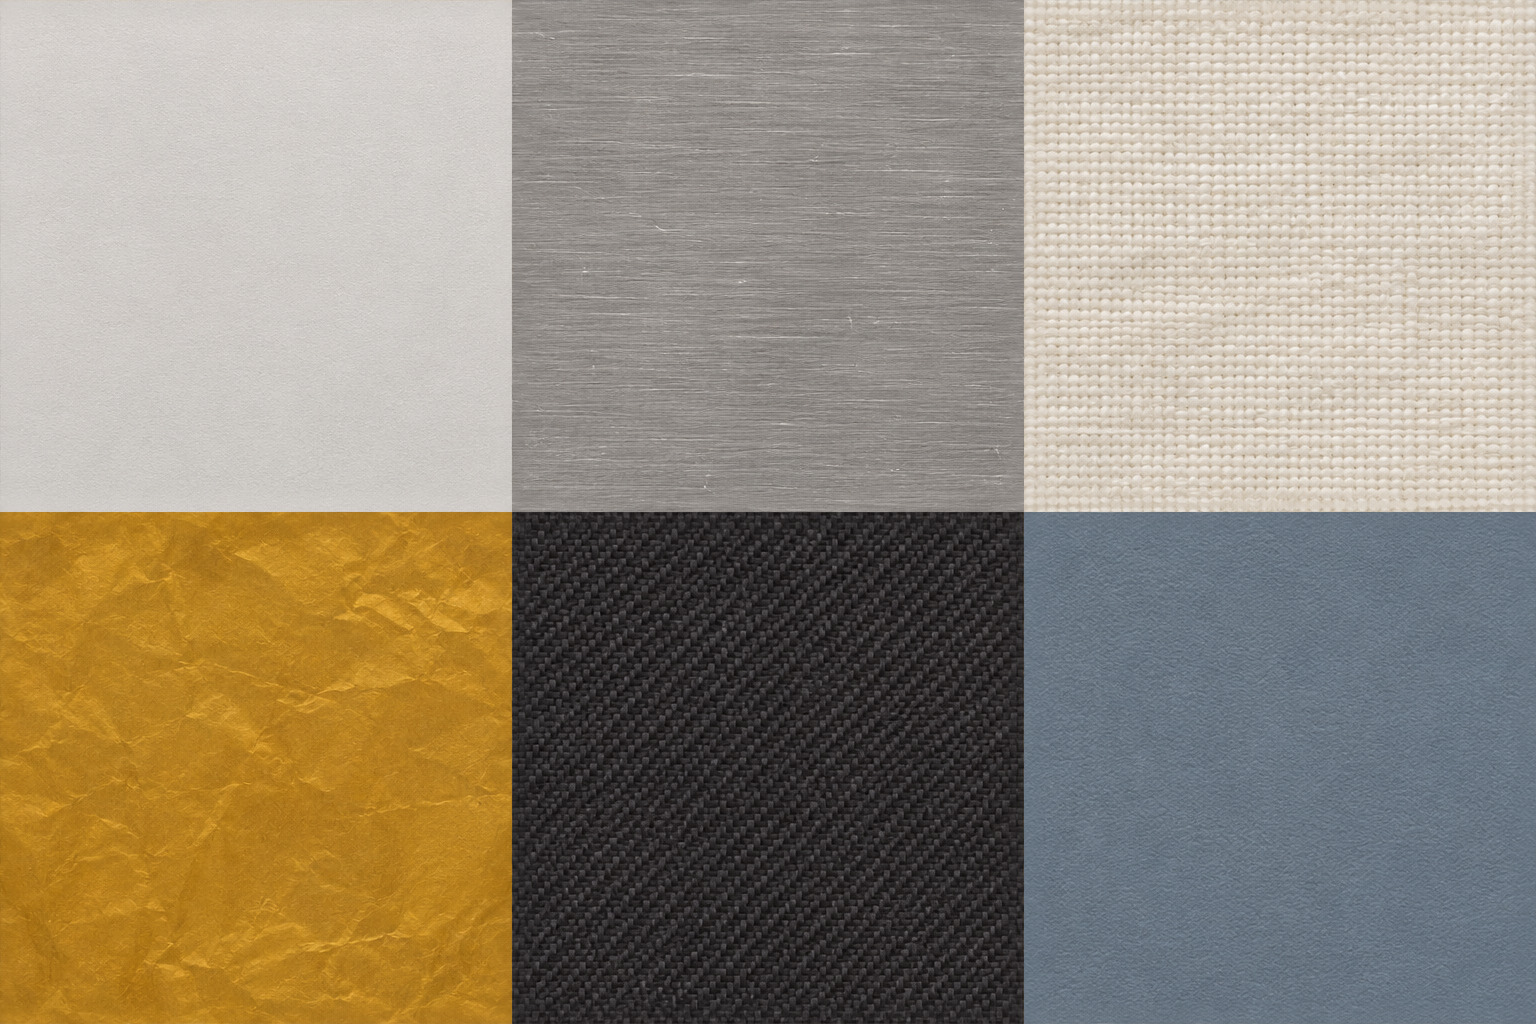
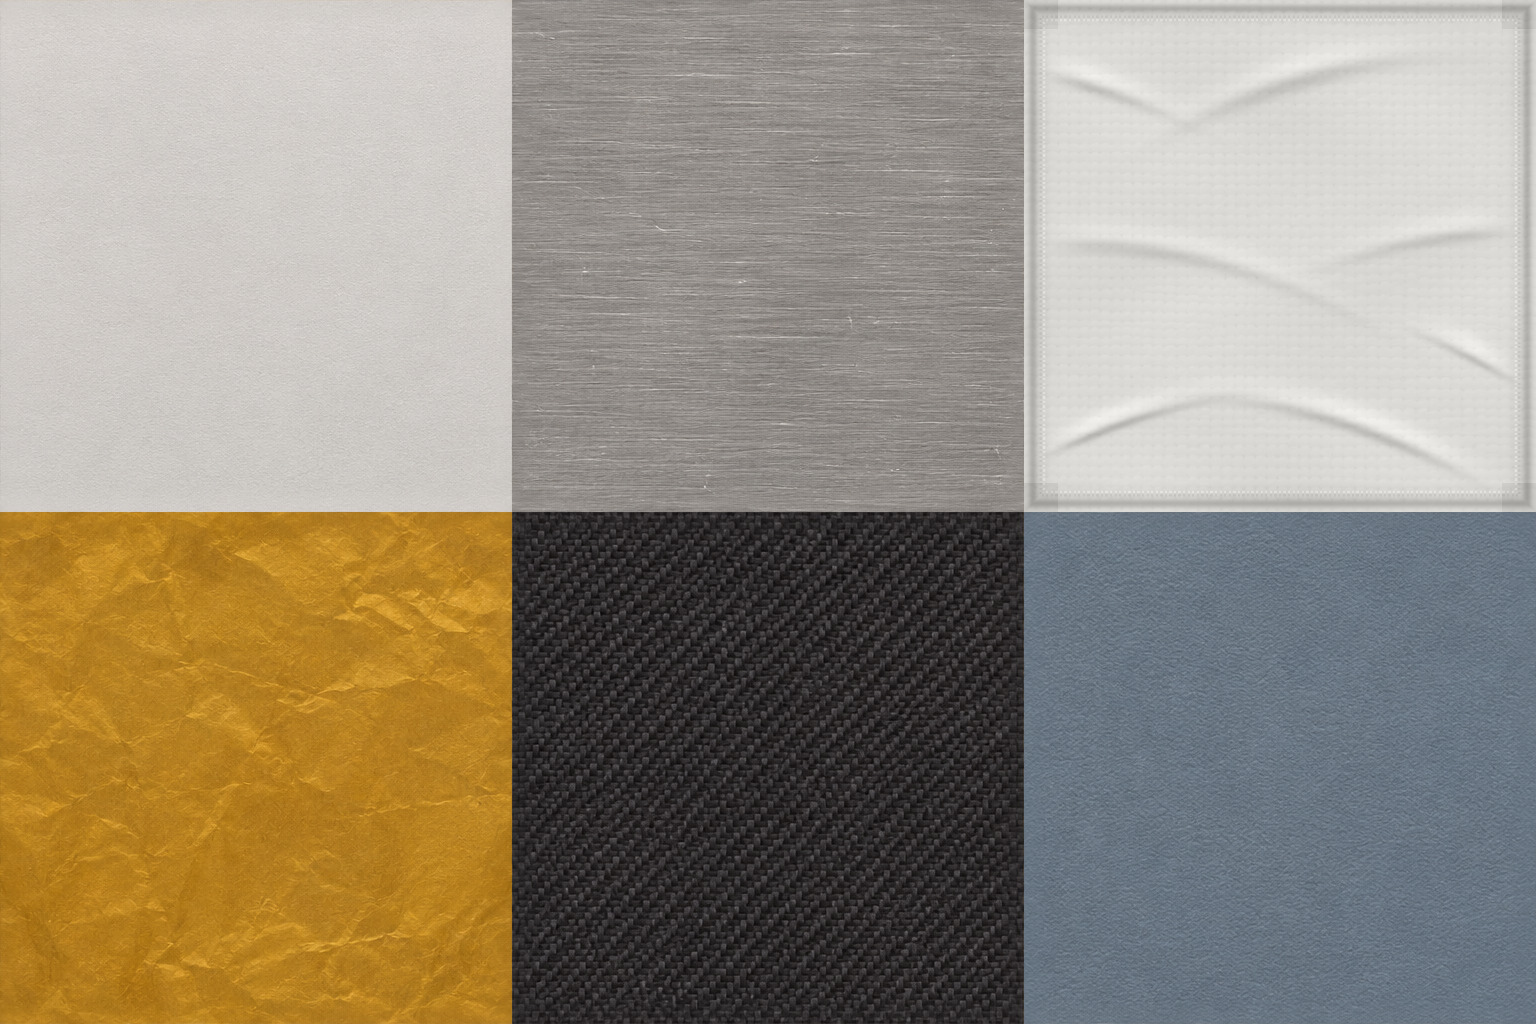
Preview orbital thermal quilt and hatch lighting

Changed region(s): [[0.6562, 0.0, 1.0, 0.5]]

diff --git a/orbital/art/build-surfaces.py b/orbital/art/build-surfaces.py
@@ -12,16 +12,51 @@ src = Image.open(sys.argv[1]).convert("RGB")
 size = 512
 assert src.size == (3*size,2*size), src.size
 atlas = Image.new("RGB", src.size)
+def thermal_quilt(linen):
+    """Project one insulated panel, with restrained weave and anchored folds."""
+    y,x=np.mgrid[0:size,0:size].astype(np.float32)/(size-1)
+    d=np.minimum(np.minimum(x,1-x),np.minimum(y,1-y))
+    weave=(linen.mean(axis=2)-217.)*.13
+    value=219.+weave
+    # Broad fabric relief radiates from off-center fixings and fades inboard.
+    fold_specs=[
+        (.11,.15,.28,.15,.022,.012,14.0),
+        (.15,.83,-.39,.17,.019,.009,17.0),
+        (.27,.48,.16,.30,.026,.015,10.0),
+        (.55,.14,-.28,.20,.033,.019,14.0),
+        (.67,.83,.36,.22,.026,.012,16.0),
+        (.83,.45,-.13,.19,.026,.013,11.0),
+        (.92,.71,.55,.11,.024,.009,17.0),
+    ]
+    for x0,y0,slope,extent,soft,narrow,amp in fold_specs:
+        along=x-x0
+        cross=y-y0-along*slope-.48*along*along
+        taper=np.exp(-(along/extent)**2)*np.clip((d-.024)*10.,0.,1.)
+        value+=amp*1.20*taper*np.exp(-((cross+.011)/soft)**2)
+        value-=amp*2.35*taper*np.exp(-((cross-.015)/narrow)**2)
+    # Compressed binding, twin rows of thread and darker corner tabs.
+    value-=42.*np.exp(-((d-.016)/.009)**2)
+    value-=8.*np.exp(-((d-.036)/.014)**2)
+    broadAge=3.*np.sin(11.*x+1.4*np.cos(9.*y))*np.sin(8.*y)
+    value+=broadAge
+    edgeAlong=np.where(np.minimum(x,1-x)<np.minimum(y,1-y),y,x)
+    thread=.5+.5*np.cos(2*np.pi*(edgeAlong*112.))
+    value-=13.*(thread>.50)*np.exp(-((d-.032)/.0030)**2)
+    value+=19.*(thread>.50)*np.exp(-((d-.038)/.0022)**2)
+    edgeTab=(np.minimum(x,1-x)<.065)&(np.minimum(y,1-y)<.055)
+    value-=13.*edgeTab.astype(np.float32)
+    return np.stack((value+2.,value,value-4.),axis=-1).clip(0,255)
 for layer in range(6):
     x0, y0 = (layer%3)*size, (layer//3)*size
     rgb = np.array(src.crop((x0,y0,x0+size,y0+size)), dtype=np.float32)
+    if layer==2:rgb=thermal_quilt(rgb)
     # Make opposite boundaries match, without mirroring entire image quadrants.
-    for k in range(30):
+    for k in range(0 if layer==2 else 30):
         a = .5*np.cos(k/30*np.pi/2)**2
         edge = rgb[:, k].copy()
         rgb[:, k] = (1-a)*edge+a*rgb[:, -k-1]
         rgb[:, -k-1] = (1-a)*rgb[:, -k-1]+a*edge
-    for k in range(30):
+    for k in range(0 if layer==2 else 30):
         a = .5*np.cos(k/30*np.pi/2)**2
         edge = rgb[k, :].copy()
         rgb[k, :] = (1-a)*edge+a*rgb[-k-1, :]

diff --git a/orbital/art/README.md b/orbital/art/README.md
@@ -53,7 +53,9 @@ and blue enamel). The editing master was generated with OpenAI image tools;
 it is a fictional material reference, not NASA photography. Run
 `python3 art/build-surfaces.py /path/to/material-master.png` to prepare the
 compact RGB sheet. The browser decodes it into a single mipmapped texture
-array, with no cross-layer bleed. Real panel relief and seams are modeled
-in Wosy. Selected rail, capsule and joint sidewalls carry octahedrally
+array, with no cross-layer bleed. The thermal tile uses restrained weave, stitched binding, and anchored
+macro creases rather than repeating weave at a large size. Matching panel
+relief and the hatch lamp bounce are baked into Wosy mesh vertices. The
+practicals do not add a light pass or cast dynamic shadows. Selected rail, capsule and joint sidewalls carry octahedrally
 encoded geometry normals in the same vertex stride; their caps and hard
 service edges do not. The albedo pixels are not used as normal maps.
